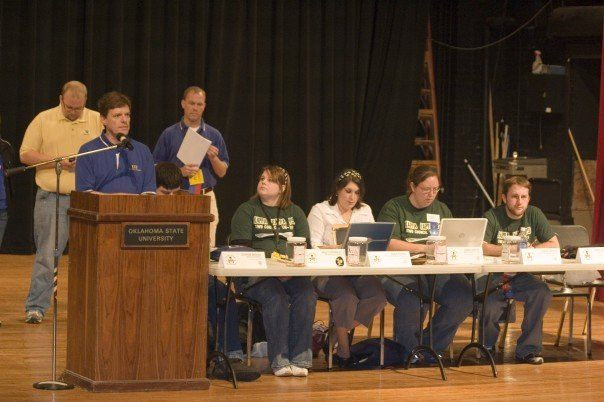
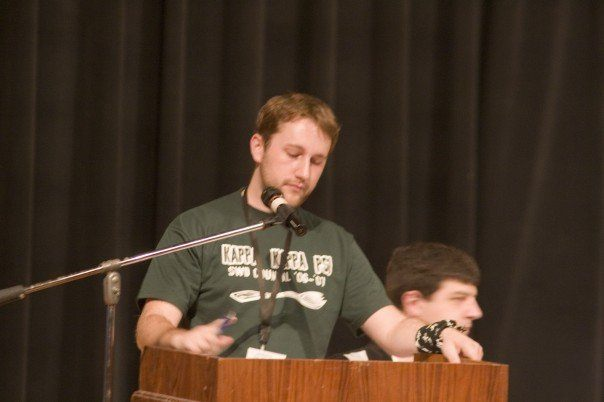
Add new photos: board, founding leaders, district leaders, awards, archives
Shawn Frausto headshot; founding leadership photos; Cyrus Jackson, Derek
Harris, and Luigi Bencomo on Honors; Dino's J. Lee Burke award photo;
Cecil Crabtree Podium clipping; Ricky Kleine photo on the Wilborn page;
1975 Buffalo Band, 2025 meeting, and alumni group photos on the home page.
Swap the Dino collage photo for an alumni group photo.

diff --git a/index.html b/index.html
@@ -68,12 +68,13 @@
 					<figure class="c3"><img src="images/alumni-at-hq.jpg" alt="Brothers and sisters at the Kappa Kappa Psi and Tau Beta Sigma National Headquarters sign" width="1600" height="1066"></figure>
 					<figure class="c4"><img src="images/founders-picture.jpg" alt="Early Alpha Psi brothers in band jackets" width="960" height="720"></figure>
 					<figure class="c5"><img src="images/alpha-psi-xi.jpg" alt="A large group photo of Alpha Psi with fellow chapters" width="1600" height="1066"></figure>
-					<figure class="c6"><img src="images/alumni-01.jpg" alt="Three Alpha Psi alumni together at a convention" width="960" height="960"></figure>
+					<figure class="c6"><img src="images/alumni-lane-loagan-caitlin-allen-austin.jpg" alt="Five Alpha Psi members dressed up in front of giant KKΨ letters" width="1600" height="1200"></figure>
 					<img class="collage-badge" src="images/logo-512.png" width="512" height="512" alt="">
 				</div>
 			</div>
 			<a class="scroll-cue" href="#welcome">Scroll</a>
 		</section>
+
 
 		<section class="section" id="welcome">
 			<div class="wrap split wide-text">
@@ -88,7 +89,7 @@
 					</div>
 				</div>
 				<figure class="photo framed tilt-r reveal" style="--d:.1s">
-				<img src="images/sound-of-west-texas.jpg" alt="The Sound of West Texas forming a W T on the field at Buffalo Stadium" width="1600" height="1067" loading="lazy">
+						<img src="images/sound-of-west-texas.jpg" alt="The Sound of West Texas forming a W T on the field at Buffalo Stadium" width="1600" height="1067" loading="lazy">
 				</figure>
 			</div>
 			<div class="wrap" style="margin-top:clamp(48px,6vw,72px)">
@@ -128,7 +129,7 @@
 						<div class="card-body"><h3>Our History</h3><p>From the Omega Tau Honorary Band Fraternity to Chapter No. 47 of Kappa Kappa Psi.</p><span class="go">Read the story <i class="fas fa-arrow-right"></i></span></div>
 					</a>
 					<a class="card tile reveal" style="--d:.06s" href="leadership">
-						<div class="tile-img"><img src="images/alumni-5.jpg" alt="" loading="lazy"></div>
+						<div class="tile-img"><img src="images/meeting-2025-08-27.jpg" alt="" loading="lazy"></div>
 						<div class="card-body"><h3>Leadership</h3><p>Meet the Board of Directors guiding our alumni community.</p><span class="go">Meet the board <i class="fas fa-arrow-right"></i></span></div>
 					</a>
 					<a class="card tile reveal" style="--d:.12s" href="programs">
@@ -171,6 +172,10 @@
 						<div class="thumb"><img src="images/electronic-music-studio.jpg" alt="" loading="lazy"></div>
 						<b>In the Studio</b><span>A brother in his KKΨ sweatshirt at the electronic music studio</span>
 					</button>
+					<button class="decade" type="button" data-lightbox="images/wt-band-1975.jpg" data-caption="1975: The West Texas State University Buffalo Band on parade">
+						<div class="thumb"><img src="images/wt-band-1975.jpg" alt="" loading="lazy"></div>
+						<b>1975</b><span>The West Texas State University Buffalo Band on parade</span>
+					</button>
 					<button class="decade" type="button" data-lightbox="images/alpha-psi-xi.jpg" data-caption="Brotherhood: Alpha Psi together with brothers and sisters from across the fraternity">
 						<div class="thumb"><img src="images/alpha-psi-xi.jpg" alt="" loading="lazy"></div>
 						<b>Brotherhood</b><span>Alpha Psi together with brothers and sisters from across the fraternity</span>
@@ -187,6 +192,10 @@
 						<div class="thumb"><img src="images/alpha-psi-1996-palo-duro.jpg" alt="" loading="lazy"></div>
 						<b>1996</b><span>Brothers climbing in Palo Duro Canyon</span>
 					</button>
+					<button class="decade" type="button" data-lightbox="images/cecil-2011.jpg" data-caption="Chapter Meeting: Brothers gathered around the conference table">
+						<div class="thumb"><img src="images/cecil-2011.jpg" alt="" loading="lazy"></div>
+						<b>Chapter Meeting</b><span>Brothers gathered around the conference table</span>
+					</button>
 					<button class="decade" type="button" data-lightbox="images/alumni-3-2012.jpg" data-caption="2012: Showing off the letters">
 						<div class="thumb"><img src="images/alumni-3-2012.jpg" alt="" loading="lazy"></div>
 						<b>2012</b><span>Showing off the letters</span>
@@ -199,9 +208,21 @@
 						<div class="thumb"><img src="images/alumni-8.jpg" alt="" loading="lazy"></div>
 						<b>Formal</b><span>Brothers (and a very large bear) in front of the KKΨ flag</span>
 					</button>
+					<button class="decade" type="button" data-lightbox="images/alumni-lane-loagan-caitlin-allen-austin.jpg" data-caption="Dressed Up: Lane, Loagan, Caitlin, Allen, and Austin in front of the letters">
+						<div class="thumb"><img src="images/alumni-lane-loagan-caitlin-allen-austin.jpg" alt="" loading="lazy"></div>
+						<b>Dressed Up</b><span>Lane, Loagan, Caitlin, Allen, and Austin in front of the letters</span>
+					</button>
+					<button class="decade" type="button" data-lightbox="images/alumni-jenna-naida-victoria.jpg" data-caption="Alumni: Jenna, Naida, and Victoria">
+						<div class="thumb"><img src="images/alumni-jenna-naida-victoria.jpg" alt="" loading="lazy"></div>
+						<b>Alumni</b><span>Jenna, Naida, and Victoria</span>
+					</button>
 					<button class="decade" type="button" data-lightbox="images/alumni-6.jpg" data-caption="Graduation: Crossing the stage and joining the alumni ranks">
 						<div class="thumb"><img src="images/alumni-6.jpg" alt="" loading="lazy"></div>
 						<b>Graduation</b><span>Crossing the stage and joining the alumni ranks</span>
+					</button>
+					<button class="decade" type="button" data-lightbox="images/meeting-2025-08-27.jpg" data-caption="2025: The Alpha Psi Alumni Association meets on August 27, 2025">
+						<div class="thumb"><img src="images/meeting-2025-08-27.jpg" alt="" loading="lazy"></div>
+						<b>2025</b><span>The Alpha Psi Alumni Association meets on August 27, 2025</span>
 					</button>
 					<button class="decade" type="button" data-lightbox="images/wtamu.jpg" data-caption="Home: West Texas A&M University in the snow">
 						<div class="thumb"><img src="images/wtamu.jpg" alt="" loading="lazy"></div>

diff --git a/honors.html b/honors.html
@@ -103,24 +103,24 @@
 					<ul class="honor-list">
 						<li><span class="ava"><img src="images/dionicio-cardenas.jpg" alt="" loading="lazy"></span><div><b>Dionicio Cardenas</b><span>2025&ndash;2027 National Alumni Association Communications Director</span></div></li>
 					</ul>
-					<figure class="photo framed tilt-r" style="margin-top:32px" data-lightbox="images/cecil-2011.jpg" data-caption="From the archives">
-						<img src="images/cecil-2011.jpg" alt="Brothers seated around a conference table, smiling at the camera" width="1600" height="1164" loading="lazy">
-						<figcaption>From the archives.</figcaption>
+					<figure class="photo framed tilt-r" style="margin-top:32px" data-lightbox="images/cecil-crabtree.jpg" data-caption="Cecil Crabtree in The Podium, Fall 2000">
+						<img src="images/cecil-crabtree.jpg" alt="Clipping from The Podium, Fall 2000, showing members at a Kappa Kappa Psi event" width="1492" height="751" loading="lazy">
+						<figcaption>Cecil Crabtree in <em>The Podium</em>, Fall 2000.</figcaption>
 					</figure>
 				</div>
 				<div class="reveal" style="--d:.1s">
 					<p class="eyebrow">Southwest District</p>
 					<h2>District Leaders of the Alpha Psi Chapter</h2>
 					<ul class="honor-list">
-						<li><span class="ava"><i class="fas fa-user"></i></span><div><b>Cyrus Jackson</b><span>2023&ndash;2024 Vice President for Programs</span></div></li>
+						<li><span class="ava"><img src="images/cyrus-jackson.jpg" alt="" loading="lazy"></span><div><b>Cyrus Jackson</b><span>2023&ndash;2024 Vice President for Programs</span></div></li>
 						<li><span class="ava"><img src="images/mason-vincent.jpg" alt="" loading="lazy"></span><div><b>Mason Vincent</b><span>2021&ndash;2022 Vice President for Programs</span></div></li>
 						<li><span class="ava"><img src="images/dionicio-cardenas.jpg" alt="" loading="lazy"></span><div><b>Dionicio Cardenas</b><span>2017&ndash;2018 Member-at-Large</span></div></li>
-						<li><span class="ava"><i class="fas fa-user"></i></span><div><b>Derek Harris</b><span>2006&ndash;2007 Member-at-Large</span></div></li>
+						<li><span class="ava"><img src="images/derek-harris.jpg" alt="" loading="lazy"></span><div><b>Derek Harris</b><span>2006&ndash;2007 Member-at-Large</span></div></li>
 						<li><span class="ava"><i class="fas fa-user"></i></span><div><b>Cecil Crabtree</b><span>2000&ndash;2001 President &amp; 1999&ndash;2000 Vice President</span></div></li>
 					</ul>
-					<figure class="photo framed tilt-l" style="margin-top:32px" data-lightbox="images/derek-harris.jpg" data-caption="Derek Harris at a Kappa Kappa Psi business session">
-						<img src="images/derek-harris.jpg" alt="Delegates seated at a table on stage while a speaker addresses the floor from a podium" width="604" height="402" loading="lazy">
-						<figcaption>Derek Harris at a fraternity business session.</figcaption>
+					<figure class="photo framed tilt-l" style="margin-top:32px" data-lightbox="images/derek-harris.jpg" data-caption="Derek Harris at the podium in his SWD Council '06–'07 shirt">
+						<img src="images/derek-harris.jpg" alt="Derek Harris speaking at a podium in a Kappa Kappa Psi Southwest District Council shirt" width="604" height="402" loading="lazy">
+						<figcaption>Derek Harris at the podium during his year on the Southwest District Council.</figcaption>
 					</figure>
 				</div>
 			</div>
@@ -144,12 +144,12 @@
 					</div>
 				</article>
 				<article class="card award flip reveal">
-					<div class="award-media"><div class="award-icon"><i class="fas fa-trophy"></i></div></div>
+					<div class="award-media" data-lightbox="images/dionicio-jlee-burke.jpg" data-caption="Dionicio Cardenas with his J. Lee Burke Student Achievement Award, 2019"><img src="images/dionicio-jlee-burke.jpg" alt="Dionicio Cardenas holding his J. Lee Burke award certificate with fraternity leaders" loading="lazy"></div>
 					<div class="card-body">
 						<h2>J. Lee Burke Student Achievement Award</h2>
 						<ul class="honor-list">
 						<li><span class="ava"><img src="images/dionicio-cardenas.jpg" alt="" loading="lazy"></span><div><b>Dionicio Cardenas</b><span>2019 recipient</span></div></li>
-						<li><span class="ava"><i class="fas fa-user"></i></span><div><b>Luigi Bencomo</b><span>2020 recipient</span></div></li>
+						<li><span class="ava"><img src="images/luigi-bencomo.webp" alt="" loading="lazy"></span><div><b>Luigi Bencomo</b><span>2020 recipient</span></div></li>
 						</ul>
 					</div>
 				</article>

diff --git a/wilborn.html b/wilborn.html
@@ -87,6 +87,10 @@
 		<section class="section">
 			<div class="narrow prose reveal">
 				<p>The dedication ceremony opened with a prayer by John Black. Cody Myers, a former Alpha Psi president and Rick&rsquo;s membership candidate classmate, shared a eulogy reflecting on Rick&rsquo;s two years at West Texas. Alpha Psi President Ricky Kleine officially dedicated the memorial. The ceremony concluded with a performance by the Tuba and Euphonium Choir of <em>Lied</em> from the <em>Quatour à 4 Trombones</em> by Flor Peeters.</p>
+				<figure class="photo framed tilt-r" style="margin:8px 0 28px" data-lightbox="images/ricky-kleine-john-black.jpg" data-caption="Kappa Kappa Psi president Ricky Kleine and John Black present a pair of tickets to WTSU President Max Sherman to attend the club's haunted house. The annual Halloween attraction provides funds for scholarships.">
+					<img src="images/ricky-kleine-john-black.jpg" alt="Ricky Kleine and John Black handing tickets to WTSU President Max Sherman" width="502" height="436" loading="lazy">
+					<figcaption>Alpha Psi president Ricky Kleine and John Black, who both took part in the dedication, present tickets for the chapter&rsquo;s haunted house, an annual scholarship fundraiser, to WTSU President Max Sherman.</figcaption>
+				</figure>
 				<p>Among those in attendance were Dr. J. L. Burke, former Grand President of Kappa Kappa Psi; Dr. Hugh Sanders, Dean of Fine Arts at West Texas; Dr. Gary Garner, Director of Bands and Kappa Kappa Psi Sponsor; as well as Alpha Psi Brothers, friends, and members of the West Texas community who came together to remember Rick.</p>
 				<blockquote class="pull-quote">
 					<p>Rick &ldquo;Big W&rdquo; Wilborn remains a part of the history and legacy of Alpha Psi. His memorial continues to serve as a reminder of a Brother who brought joy to those around him and whose time at West Texas, though brief, left a lasting impression.</p>

diff --git a/leadership.html b/leadership.html
@@ -75,7 +75,7 @@
 						<span class="chip gold">MC Class: Delta Chi &middot; Spring 2019</span>
 					</article>
 					<article class="card member reveal" style="--d:0.06s">
-						<div class="headshot"><span class="initials" aria-hidden="true">SF</span></div>
+						<div class="headshot"><img src="images/shawn-frausto.jpg" alt="Shawn Frausto" loading="lazy"></div>
 						<!-- Add this officer's title here, e.g. <p class="role">President</p> -->
 						<p class="role">Board of Directors</p>
 						<h3>Shawn Frausto</h3>
@@ -156,10 +156,10 @@
 					<p>Thank you for laying the foundation for our Alumni Association and for helping carry the spirit of service, leadership, music, and brotherhood forward for generations to come.</p>
 				</div>
 				<ul class="founders reveal">
-					<li><b>Adalberto &ldquo;Bert&rdquo; Capetillo</b><span>President</span></li>
-					<li><b>Tim Cuevas</b><span>Finance Director</span></li>
-					<li><b>Victoria Wilkinson</b><span>Communications Director</span></li>
-					<li><b>Travis Otts</b><span>Alumni Secretary</span></li>
+					<li><img src="images/adalberto-capetillo.jpg" alt="" loading="lazy"><div><b>Adalberto &ldquo;Bert&rdquo; Capetillo</b><span>President</span></div></li>
+					<li><img src="images/tim-cuevas.jpg" alt="" loading="lazy"><div><b>Tim Cuevas</b><span>Finance Director</span></div></li>
+					<li><img src="images/victoria-wilkinson.jpg" alt="" loading="lazy"><div><b>Victoria Wilkinson</b><span>Communications Director</span></div></li>
+					<li><img src="images/travis-otts.jpg" alt="" loading="lazy"><div><b>Travis Otts</b><span>Alumni Secretary</span></div></li>
 				</ul>
 				<h3 class="reveal" style="margin-top:48px">Founding Members</h3>
 				<ul class="names reveal">

diff --git a/assets/css/site.css b/assets/css/site.css
@@ -477,8 +477,9 @@ a.card { text-decoration: none; color: inherit; display: block; }
 .member .chip { margin-bottom: 4px; }
 .member.rep::before { background: linear-gradient(155deg, var(--navy-700) 0%, var(--navy) 100%); }
 
-.founders { display: grid; grid-template-columns: repeat(auto-fill, minmax(220px, 1fr)); gap: 14px; list-style: none; padding: 0; margin: 0; }
-.founders li { background: #fff; border: 1px solid var(--line); border-radius: var(--radius-sm); padding: 16px 18px; border-top: 3px solid var(--gold); }
+.founders { display: grid; grid-template-columns: repeat(auto-fill, minmax(270px, 1fr)); gap: 14px; list-style: none; padding: 0; margin: 0; }
+.founders li { background: #fff; border: 1px solid var(--line); border-radius: var(--radius-sm); padding: 16px 18px; border-top: 3px solid var(--gold); display: flex; align-items: center; gap: 16px; }
+.founders img { width: 72px; height: 72px; border-radius: 50%; object-fit: cover; flex-shrink: 0; border: 3px solid #fff; box-shadow: 0 0 0 2px var(--gold); }
 .founders b { display: block; font-family: var(--font-display); font-weight: 700; font-size: 1.35rem; color: var(--maroon-900); text-transform: uppercase; line-height: 1.1; }
 .founders span { font-size: .9rem; color: var(--muted); }
 
